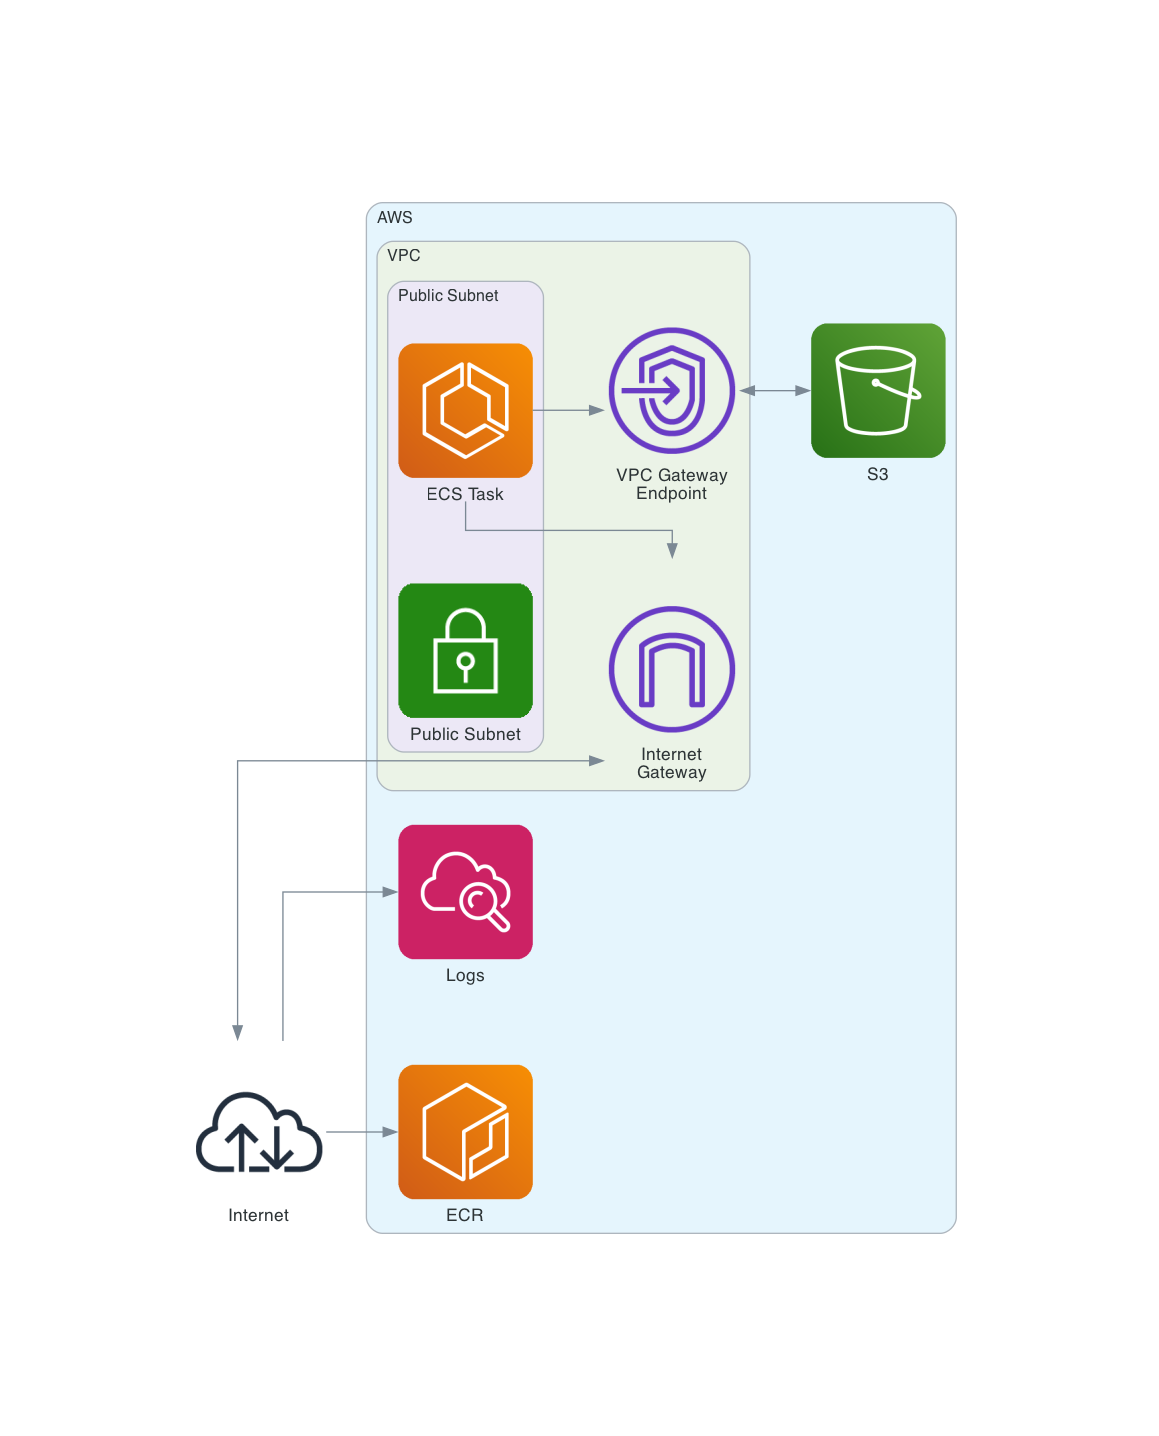
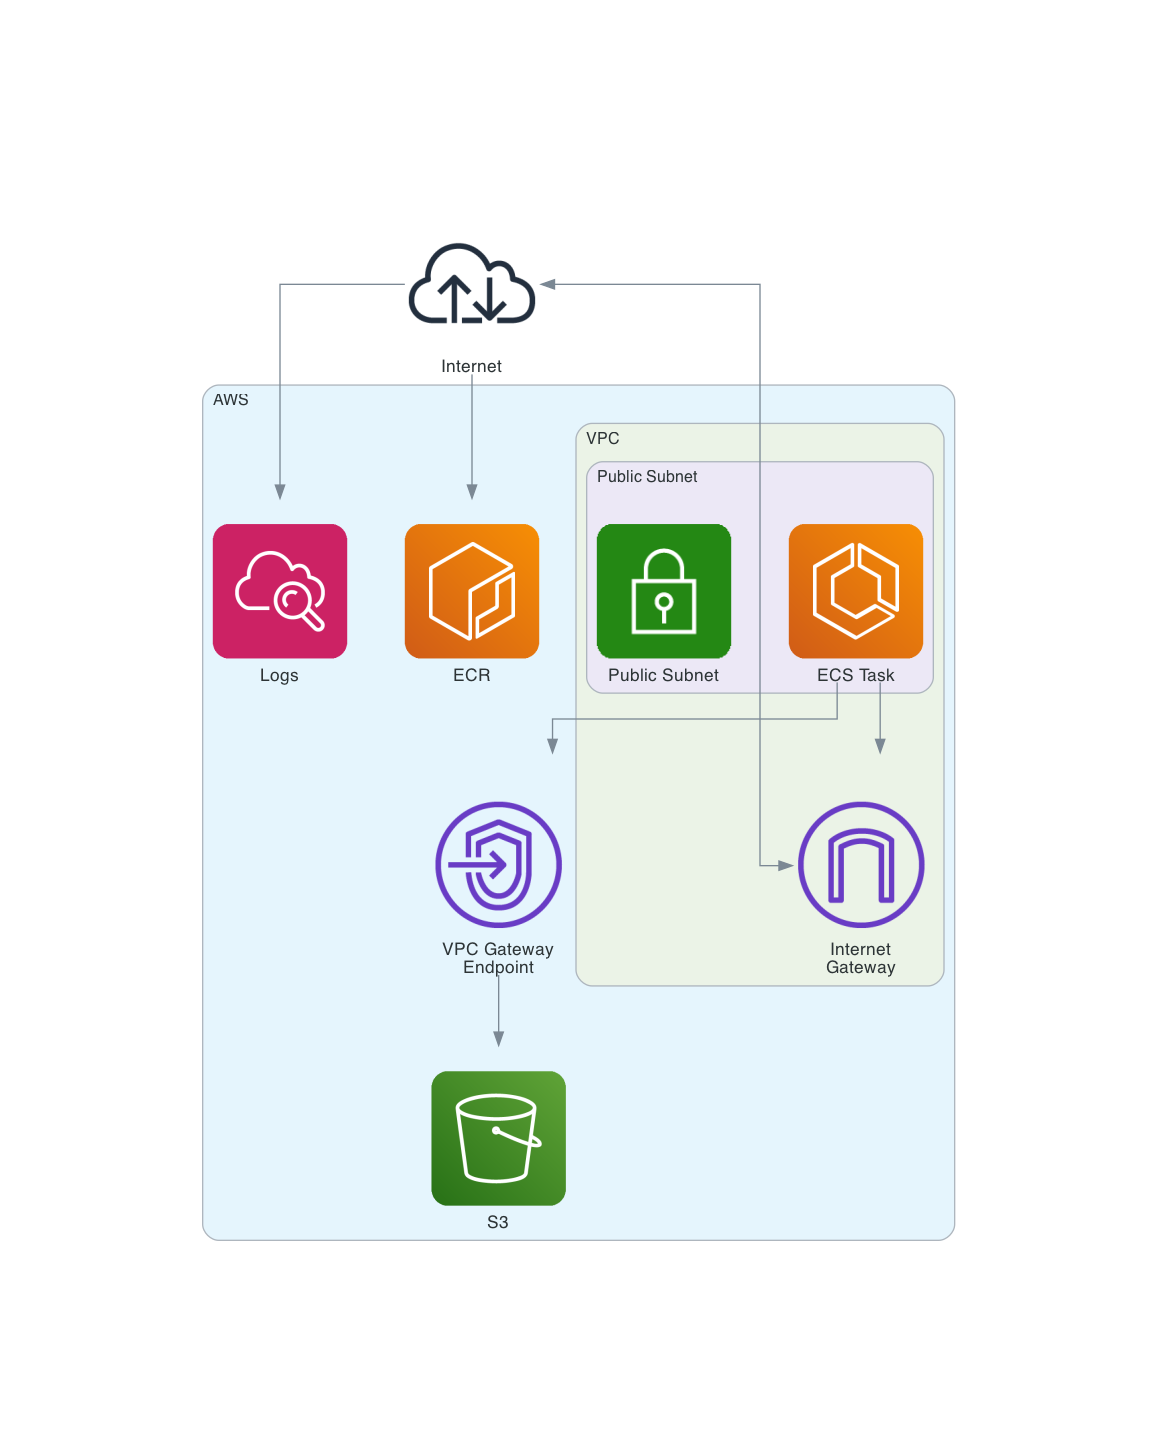
diagrams: enpoint tweak

Changed region(s): [[0.1556, 0.1226, 0.8401, 0.8579], [0.6534, 0.5515, 0.809, 0.6741]]

diff --git a/diagrams/vpc_diagram.py b/diagrams/vpc_diagram.py
@@ -5,25 +5,25 @@ from diagrams.aws.storage import S3
 from diagrams.aws.management import Cloudwatch
 from diagrams.onprem.network import Internet
 
-with Diagram("", filename="vpc_diagram", outformat="png"):
+with Diagram("", filename="vpc_diagram", outformat="png", direction="TB"):
 
-  internet = Internet("Internet")
+    internet = Internet("Internet")
 
-  with Cluster("AWS"):
-    logs = Cloudwatch("Logs")
-    ecr = ECR("ECR")
-    s3 = S3("S3")
-    
-    with Cluster("VPC"):
-      igw = InternetGateway("Internet\nGateway")
-      s3Endpoint = Endpoint("VPC Gateway\nEndpoint")
+    with Cluster("AWS"):
+        logs = Cloudwatch("Logs")
+        ecr = ECR("ECR")
+        s3 = S3("S3")
+        s3Endpoint = Endpoint("VPC Gateway\nEndpoint")
 
-      with Cluster("Public Subnet"):
-        publicSubnet = PublicSubnet("Public Subnet")        
-        ecs = ECS("ECS Task")
+        with Cluster("VPC"):
+            igw = InternetGateway("Internet\nGateway")
 
-      ecs >>  igw
-      ecs >> s3Endpoint >> Edge(label="") << s3
-           
-  igw >> Edge(label="") << internet
-  internet >> [ecr, logs]
+            with Cluster("Public Subnet"):
+                publicSubnet = PublicSubnet("Public Subnet")
+                ecs = ECS("ECS Task")
+
+        ecs >> igw
+        ecs >> s3Endpoint >> s3
+
+    igw >> Edge(label="") << internet
+    internet >> [ecr, logs]

diff --git a/diagrams/vpc_diagram_alt.py b/diagrams/vpc_diagram_alt.py
@@ -6,18 +6,16 @@ from diagrams.aws.management import Cloudwatch
 
 with Diagram("", filename="vpc_diagram_alt", outformat="png"):
 
-  with Cluster("AWS"):
-    logs = Cloudwatch("Logs")
-    ecr = ECR("ECR")
-    s3 = S3("S3")
-    
-    
-    with Cluster("VPC"):
-      with Cluster("Private Subnet"):
-        ecs = ECS("ECS Task")
-        privateSubnet = PrivateSubnet("Private Subnet")
+    with Cluster("AWS"):
+        logs = Cloudwatch("Logs")
+        ecr = ECR("ECR")
+        s3 = S3("S3")
 
-      ecs >> Endpoint("VPC Gateway\nEndpoint") >> Edge(label="") << s3
-      ecs >> Endpoint("VPC Endpoint") >> Edge(label="") << ecr
-      ecs >> Endpoint("VPC Endpoint") >> Edge(label="") << logs
-  
+        with Cluster("VPC"):
+            with Cluster("Private Subnet"):
+                ecs = ECS("ECS Task")
+                privateSubnet = PrivateSubnet("Private Subnet")
+
+        ecs >> Endpoint("VPC Gateway\nEndpoint") >> s3
+        ecs >> Endpoint("VPC Endpoint") >> ecr
+        ecs >> Endpoint("VPC Endpoint") >> logs
